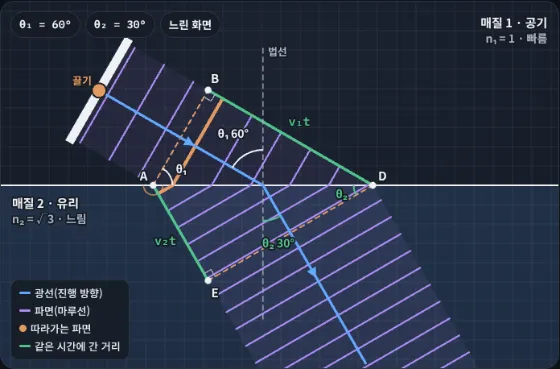
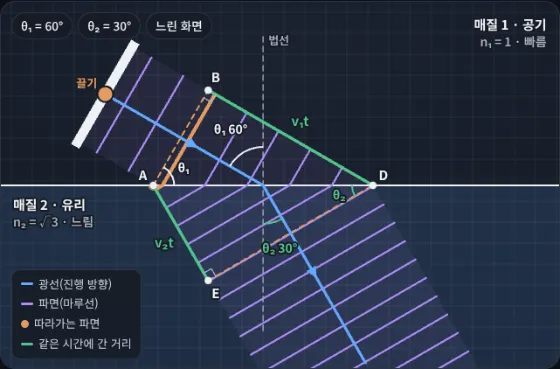
III1-04 무대 글자 굵기 줄임, README에 관찰 노트 배치 설명
Claude-Session: https://claude.ai/code/session_01PAYXioMmNYUqFyQvqYnAEy

diff --git a/physics/III1/04/index.html b/physics/III1/04/index.html
@@ -244,7 +244,7 @@
   }
   function angArc(ctx, O, r, a0, a1, col, label, lr) {
     ctx.save(); ctx.strokeStyle = col; ctx.lineWidth = 2; ctx.beginPath(); ctx.arc(O[0], O[1], r, a0, a1); ctx.stroke(); ctx.restore();
-    if (label) { const m = (a0 + a1) / 2; text(ctx, label, O[0] + Math.cos(m) * lr, O[1] + Math.sin(m) * lr, {size: 14, w: 700, color: col, halo: true}); }
+    if (label) { const m = (a0 + a1) / 2; text(ctx, label, O[0] + Math.cos(m) * lr, O[1] + Math.sin(m) * lr, {size: 14, w: 600, color: col, halo: true}); }
   }
 
   // ── 무대 기하 ───────────────────────────────────────────
@@ -311,7 +311,7 @@
     if (huy) drawHuygens(ctx, g);
     const Rn = Math.min(g.yB - 40, H - g.yB - 30, g.narrow ? 120 : 170);
     Lab.line(ctx, [[g.Ox, g.yB - Rn], [g.Ox, g.yB + Rn]], C.muted, 1.4, [6, 5]);
-    text(ctx, '법선', g.Ox + 6, g.yB - Rn + 4, {size: 13, w: 600, color: C.muted, align: 'left', halo: true});
+    text(ctx, '법선', g.Ox + 6, g.yB - Rn + 4, {size: 13, w: 500, color: C.muted, align: 'left', halo: true});
     if (S.disp) drawDisp(ctx, g, src); else drawRays(ctx, g, src);
     drawSource(ctx, g, src);
     drawLabels(ctx, g);
@@ -356,12 +356,12 @@
     angArc(ctx, A, 24, -g.th1 * RAD, 0, C.ink, 'θ₁', 40);
     angArc(ctx, D, 24, Math.PI - g.th2 * RAD, Math.PI, C.acc, 'θ₂', 40);
     const mid = (P, Q) => [(P[0] + Q[0]) / 2, (P[1] + Q[1]) / 2];
-    const lb = (s, P, v, k, col) => text(ctx, s, P[0] + v[0] * k, P[1] + v[1] * k, {size: 15, w: 700, color: col, halo: true, mono: true});
+    const lb = (s, P, v, k, col) => text(ctx, s, P[0] + v[0] * k, P[1] + v[1] * k, {size: 15, w: 600, color: col, halo: true, mono: true});
     lb('v₁t', mid(B, D), g.p1, 22, C.acc);
     lb('v₂t', mid(A, E), [-g.p2[0], -g.p2[1]], 22, C.acc);
     for (const [s, P, v] of [['A', A, [-0.7, -0.7]], ['B', B, g.p1], ['D', D, [0.7, -0.7]], ['E', E, g.u2]]) {
       Lab.circle(ctx, P[0], P[1], 4.2, {fill: C.ink});
-      text(ctx, s, P[0] + v[0] * 17, P[1] + v[1] * 17, {size: 15, w: 700, halo: true});
+      text(ctx, s, P[0] + v[0] * 17, P[1] + v[1] * 17, {size: 15, w: 600, halo: true});
     }
   }
   function drawRays(ctx, g, src) {
@@ -377,14 +377,14 @@
   function drawDisp(ctx, g, src) {
     const O = [g.Ox, g.yB], r = g.narrow ? 34 : 44;
     ray(ctx, src, O, C.ink, 3.2);
-    text(ctx, '백색광', src[0] + g.u1[0] * 40 + g.p1[0] * 26, src[1] + g.u1[1] * 40 + g.p1[1] * 26, {size: 14, w: 700, halo: true});
+    text(ctx, '백색광', src[0] + g.u1[0] * 40 + g.p1[0] * 26, src[1] + g.u1[1] * 40 + g.p1[1] * 26, {size: 14, w: 600, halo: true});
     if (g.th1 >= 1) angArc(ctx, O, r, -Math.PI / 2 - g.th1 * RAD, -Math.PI / 2, C.ink, 'θ₁ ' + fmt(g.th1, 1) + '°', r + 30);
     const rays = [[650, -DISP, '빨강'], [410, DISP, '보라']];
     rays.forEach(([nm, dn, lab], i) => {
       const th = M.refract(g.a, g.b + dn, g.th1); if (Number.isNaN(th)) return;
       const u = [M.sinD(th), M.cosD(th)], L = toEdge(O, u, g.W, g.H, 34), col = spec(nm), E = add(O, u, L);
       ray(ctx, O, E, col, 3.2, 0.62);
-      text(ctx, lab + ' ' + fmt(th, 1) + '°', E[0] + (i ? -10 : 10), E[1] + 4, {size: 14, w: 700, color: col, align: i ? 'right' : 'left', halo: true});
+      text(ctx, lab + ' ' + fmt(th, 1) + '°', E[0] + (i ? -10 : 10), E[1] + 4, {size: 14, w: 600, color: col, align: i ? 'right' : 'left', halo: true});
     });
     text(ctx, '(굴절률 차이를 과장해 그림)', g.W - 14, g.yB + 22, {size: 13, w: 500, color: C.muted, align: 'right', halo: true});
   }
@@ -395,15 +395,15 @@
     const hp = add(src, g.u1, -5.5);
     Lab.circle(ctx, hp[0], hp[1], 9, {fill: C.copper, stroke: C.paper, width: 2});
     const tp = add(src, g.u1, -30);
-    if (tp[0] > 24 && tp[1] > 50) text(ctx, '끌기', tp[0], tp[1], {size: 13, w: 700, color: C.copper, halo: true});
+    if (tp[0] > 24 && tp[1] > 50) text(ctx, '끌기', tp[0], tp[1], {size: 13, w: 600, color: C.copper, halo: true});
   }
   function drawLabels(ctx, g) {
     const m1 = MED[S.m1], m2 = MED[S.m2], same = Math.abs(g.a - g.b) < 1e-9, slow2 = g.b > g.a;
     const y1 = g.narrow ? 64 : 26, xr = g.W - 14, y2 = g.narrow ? g.H - 42 : g.yB + 22;
     text(ctx, '매질 1 · ' + m1.name, xr, y1, {size: 15, w: 700, align: 'right', halo: true});
-    text(ctx, 'n₁ = ' + m1.tag + (same ? '' : slow2 ? ' · 빠름' : ' · 느림'), xr, y1 + 20, {size: 14, w: 600, align: 'right', color: C.muted, halo: true});
+    text(ctx, 'n₁ = ' + m1.tag + (same ? '' : slow2 ? ' · 빠름' : ' · 느림'), xr, y1 + 20, {size: 14, w: 500, align: 'right', color: C.muted, halo: true});
     text(ctx, '매질 2 · ' + m2.name, 14, y2, {size: 15, w: 700, align: 'left', halo: true});
-    text(ctx, 'n₂ = ' + m2.tag + (same ? '' : slow2 ? ' · 느림' : ' · 빠름'), 14, y2 + 20, {size: 14, w: 600, align: 'left', color: C.muted, halo: true});
+    text(ctx, 'n₂ = ' + m2.tag + (same ? '' : slow2 ? ' · 느림' : ' · 빠름'), 14, y2 + 20, {size: 14, w: 500, align: 'left', color: C.muted, halo: true});
   }
 
   // ── sinθ 작도 (반지름 1인 원) ───────────────────────────
@@ -420,22 +420,22 @@
     Lab.line(ctx, [[0, cy], [W, cy]], C.ink, 1.6);
     Lab.line(ctx, [[cx, cy - R - 16], [cx, cy + R + 16]], C.muted, 1.2, [5, 4]);
     Lab.circle(ctx, cx, cy, R, {stroke: C.muted, width: 1.4});
-    text(ctx, 'n₁ = ' + MED[S.m1].tag, 10, 16, {size: 13, w: 600, color: C.muted, align: 'left'});
-    text(ctx, 'n₂ = ' + MED[S.m2].tag, 10, H - 14, {size: 13, w: 600, color: C.muted, align: 'left'});
+    text(ctx, 'n₁ = ' + MED[S.m1].tag, 10, 16, {size: 13, w: 500, color: C.muted, align: 'left'});
+    text(ctx, 'n₂ = ' + MED[S.m2].tag, 10, H - 14, {size: 13, w: 500, color: C.muted, align: 'left'});
     const s1 = M.sinD(S.th), c1 = M.cosD(S.th), P1 = [cx - R * s1, cy - R * c1];
     Lab.line(ctx, [P1, [cx, cy]], C.vel, 3);
-    text(ctx, '1', (P1[0] + cx) / 2 + c1 * 12, (P1[1] + cy) / 2 - s1 * 12 + 2, {size: 13, w: 700, color: C.vel, halo: true});
+    text(ctx, '1', (P1[0] + cx) / 2 + c1 * 12, (P1[1] + cy) / 2 - s1 * 12 + 2, {size: 13, w: 600, color: C.vel, halo: true});
     Lab.line(ctx, [P1, [cx, P1[1]]], C.copper, 4.5);
     Lab.circle(ctx, P1[0], P1[1], 4.5, {fill: C.vel});
-    text(ctx, 'sinθ₁ = ' + fmt(s1, 2), Math.min(cx - 50, (P1[0] + cx) / 2), P1[1] - 14, {size: 14, w: 700, color: C.copper, halo: true});
+    text(ctx, 'sinθ₁ = ' + fmt(s1, 2), Math.min(cx - 50, (P1[0] + cx) / 2), P1[1] - 14, {size: 14, w: 600, color: C.copper, halo: true});
     if (!tir) {
       const s2 = M.sinD(th2), c2 = M.cosD(th2), P2 = [cx + R * s2, cy + R * c2];
       Lab.line(ctx, [[cx, cy], P2], C.vel, 3);
       Lab.line(ctx, [[cx, P2[1]], P2], C.copper, 4.5);
       Lab.circle(ctx, P2[0], P2[1], 4.5, {fill: C.vel});
-      text(ctx, 'sinθ₂ = ' + fmt(s2, 2), Math.max(cx + 50, (P2[0] + cx) / 2), P2[1] + 15, {size: 14, w: 700, color: C.copper, halo: true});
-      if (S.th >= 1) text(ctx, 'sinθ₁/sinθ₂ = ' + fmt(s1 / s2, 2) + ' = n₂/n₁', W - 10, 16, {size: 13, w: 700, color: C.copper, align: 'right', halo: true});
-    } else text(ctx, '굴절 광선 없음', cx + 12, cy + R * 0.5, {size: 14, w: 700, color: C.neg, align: 'left'});
+      text(ctx, 'sinθ₂ = ' + fmt(s2, 2), Math.max(cx + 50, (P2[0] + cx) / 2), P2[1] + 15, {size: 14, w: 600, color: C.copper, halo: true});
+      if (S.th >= 1) text(ctx, 'sinθ₁/sinθ₂ = ' + fmt(s1 / s2, 2) + ' = n₂/n₁', W - 10, 16, {size: 13, w: 600, color: C.copper, align: 'right', halo: true});
+    } else text(ctx, '굴절 광선 없음', cx + 12, cy + R * 0.5, {size: 14, w: 600, color: C.neg, align: 'left'});
   }
 
   // ── sinθ₁–sinθ₂ 그래프 ──────────────────────────────────
@@ -458,20 +458,20 @@
     }
     const k = a / n2(), e = end(k);
     Lab.line(ctx, [P(0, 0), P(...e)], C.vel, 3.2);
-    if (e[0] === 1) text(ctx, MED[S.m2].tag, ax.X(1) + 6, ax.Y(e[1]), {size: 14, w: 700, color: C.vel, align: 'left', halo: true});
+    if (e[0] === 1) text(ctx, MED[S.m2].tag, ax.X(1) + 6, ax.Y(e[1]), {size: 14, w: 600, color: C.vel, align: 'left', halo: true});
     else {
       Lab.circle(ctx, ax.X(e[0]), ax.Y(1), 5.5, {fill: C.neg});
-      text(ctx, '끝 = 임계각', ax.X(e[0]) - 8, ax.Y(1) - 13, {size: 13, w: 700, color: C.neg, align: 'right', halo: true});
+      text(ctx, '끝 = 임계각', ax.X(e[0]) - 8, ax.Y(1) - 13, {size: 13, w: 600, color: C.neg, align: 'right', halo: true});
     }
-    text(ctx, '기울기 n₁/n₂ = ' + fmt(k, 3), r.x + 14, r.y + 30, {size: 14, w: 700, color: C.vel, align: 'left', halo: true});
+    text(ctx, '기울기 n₁/n₂ = ' + fmt(k, 3), r.x + 14, r.y + 30, {size: 14, w: 600, color: C.vel, align: 'left', halo: true});
     const x = M.sinD(S.th), y = x * k;
     if (y <= 1 + 1e-9) {
       Lab.line(ctx, [P(x, 0), P(x, y), P(0, y)], C.copper, 1.4, [4, 4]);
       Lab.circle(ctx, ax.X(x), ax.Y(y), 6.5, {fill: C.copper, stroke: C.paper, width: 2});
-      text(ctx, '(' + fmt(x, 2) + ', ' + fmt(y, 2) + ')', ax.X(x) + (x > 0.6 ? -10 : 10), ax.Y(y) - 15, {size: 13, w: 700, color: C.copper, align: x > 0.6 ? 'right' : 'left', halo: true, mono: true});
+      text(ctx, '(' + fmt(x, 2) + ', ' + fmt(y, 2) + ')', ax.X(x) + (x > 0.6 ? -10 : 10), ax.Y(y) - 15, {size: 13, w: 600, color: C.copper, align: x > 0.6 ? 'right' : 'left', halo: true, mono: true});
     } else {
       Lab.circle(ctx, ax.X(x), ax.Y(0), 6, {fill: C.neg});
-      text(ctx, '굴절 없음', ax.X(x), ax.Y(0) - 16, {size: 13, w: 700, color: C.neg, halo: true});
+      text(ctx, '굴절 없음', ax.X(x), ax.Y(0) - 16, {size: 13, w: 600, color: C.neg, halo: true});
     }
   }
 
@@ -485,8 +485,8 @@
       const n = i ? n2() : n1(), m = MED[i ? S.m2 : S.m1], lam = lam0 / n;
       const rowH = H / 2, yc = narrow ? rowH * (i + 0.47) : H * (i ? 0.73 : 0.3);
       const name = (i ? '매질 2 · ' : '매질 1 · ') + m.name + ' (n = ' + m.tag + ')', vs = 'v = ' + Lab.sci(M.speed(n), 2) + ' m/s';
-      if (narrow) { text(ctx, name, 14, rowH * i + 13, {size: 13, w: 700, align: 'left'}); text(ctx, vs, W - 14, rowH * i + 13, {size: 13, w: 600, color: C.vel, align: 'right', mono: true}); }
-      else { text(ctx, name, 14, yc - 10, {size: 14, w: 700, align: 'left'}); text(ctx, vs, 14, yc + 12, {size: 13, w: 600, color: C.vel, align: 'left', mono: true}); }
+      if (narrow) { text(ctx, name, 14, rowH * i + 13, {size: 13, w: 600, align: 'left'}); text(ctx, vs, W - 14, rowH * i + 13, {size: 13, w: 600, color: C.vel, align: 'right', mono: true}); }
+      else { text(ctx, name, 14, yc - 10, {size: 14, w: 600, align: 'left'}); text(ctx, vs, 14, yc + 12, {size: 13, w: 600, color: C.vel, align: 'left', mono: true}); }
       Lab.line(ctx, [[x0, yc], [x1, yc]], C.line, 1);
       const ph = (x) => 2 * Math.PI * (F * S.t - (x - x0) / lam);
       ctx.save(); ctx.strokeStyle = C.vel; ctx.lineWidth = 2.8; ctx.beginPath();
@@ -500,7 +500,7 @@
       if (cs.length) Lab.circle(ctx, cs[0], yc - amp, 5, {fill: C.copper});
       Lab.circle(ctx, x0, yc - amp * Math.sin(ph(x0)), 4.5, {fill: C.ink});
     });
-    if (!narrow) text(ctx, '같은 파원 → 같은 f', x0, H * 0.515, {size: 13, w: 600, color: C.muted, align: 'left'});
+    if (!narrow) text(ctx, '같은 파원 → 같은 f', x0, H * 0.515, {size: 13, w: 500, color: C.muted, align: 'left'});
   }
 
   // ── 수치 ────────────────────────────────────────────────

diff --git a/README.md b/README.md
@@ -14,7 +14,7 @@
 | `sims/geologic-game/` | 지질시대 온라인 게임 |
 | `sims/phone-sextant/` | 폰 육분의: 카메라·기울기 센서로 해·달·별의 고도를 재서 위치 찾기. 계산은 `phone-sextant-model.js` |
 | `sims/sun/` 외 7개 | 행성우주과학 Ⅱ·Ⅲ단원 실험실: `sun`(태양 관측소), `star-distance`(별까지의 거리), `star-motion`(별의 공간 운동), `cluster-cmd`(성단 C-M도), `milky-way`(우리은하 지도), `dust`(성간 티끌), `redshift-survey`(은하 적색 편이 탐사), `cosmic-web`(우주거대구조 모의실험). 변광성 실험실(`sims/variables/`)과 같은 틀이고 계산은 폴더마다 `*-model.js`. 주소 끝에 `#s2`처럼 붙이면 그 실험부터 열립니다(QR 코드용) |
-| `physics/` | 물리 실험실(물리학 Ⅰ·Ⅱ). 첫 화면(지구과학)과 따로 둔 베타 페이지로, 첫 화면 머리띠 오른쪽 끝 '🧲 물리 β' 버튼으로 들어갑니다. **개념 실험**: 개념서의 개념 158개(`data/physics_concepts.json`)를 개념 하나 = 페이지 하나로 만듭니다 — `<단원>/<번호>/index.html` + `<ID>-model.js`(계산 모형) + `tests/<ID>-model.test.cjs`(개념서 예제 값과 답 검증). 공통 디자인 `kit/lab.css`, 공통 그리기 도구 `kit/lab.js`. 새 페이지를 만들면 `python3 physics/tools/build_index.py` 로 첫 화면 개념 지도(`data/built.json`)와 단원 목록(`<단원>/index.html`)을 갱신하고, `node physics/tools/thumbs.cjs <ID>` 로 카드 그림(`data/thumbs/`)을 찍습니다. 첫 화면은 모눈종이 머리판(개념 158칸 지도) → 과목 탭·찾기 → 대단원별 실험 카드. 직류 전동기 3D는 II2-06 자리 `II2/06/`(옛 주소 `dc-motor/` 는 `404.html` 이 옮겨 줌). 만드는 법 `kit/GUIDE.md` |
+| `physics/` | 물리 실험실(물리학 Ⅰ·Ⅱ). 첫 화면(지구과학)과 따로 둔 베타 페이지로, 첫 화면 머리띠 오른쪽 끝 '🧲 물리 β' 버튼으로 들어갑니다. **개념 실험**: 개념서의 개념 158개(`data/physics_concepts.json`)를 개념 하나 = 페이지 하나로 만듭니다 — `<단원>/<번호>/index.html` + `<ID>-model.js`(계산 모형) + `tests/<ID>-model.test.cjs`(개념서 예제 값과 답 검증). 페이지는 「관찰 노트」 배치입니다 — 왼쪽 실험대(무대 + 조작)가 화면에 붙어 다니고, 오른쪽에서 지금 값(공식에 지금 값 넣기) → 관찰 ①②… → 정리 → 개념서 예제 → 스스로 확인 순서로 읽습니다. 공통 디자인 `kit/lab.css`, 공통 그리기 도구 `kit/lab.js`. 새 페이지를 만들면 `python3 physics/tools/build_index.py` 로 첫 화면 개념 지도(`data/built.json`), 단원 목록(`<단원>/index.html`), 개념 페이지의 맨 위 막대·이전다음(짧은 이름 `data/short_names.json`)을 갱신하고, `node physics/tools/thumbs.cjs <ID>` 로 카드 그림(`data/thumbs/`)을 찍습니다. 첫 화면은 모눈종이 머리판(개념 158칸 지도) → 과목 탭·찾기 → 대단원별 실험 카드. 직류 전동기 3D는 II2-06 자리 `II2/06/`(옛 주소 `dc-motor/` 는 `404.html` 이 옮겨 줌). 만드는 법 `kit/GUIDE.md` |
 | `widgets/` | 첫 화면에 붙는 작은 기능 (체육대회 우천 레이더) |
 | `tests/` | 계산 모형 테스트: `node --test tests/*.test.cjs` |
 | `archive/` | 지금은 쓰지 않는 예전 파일 |
